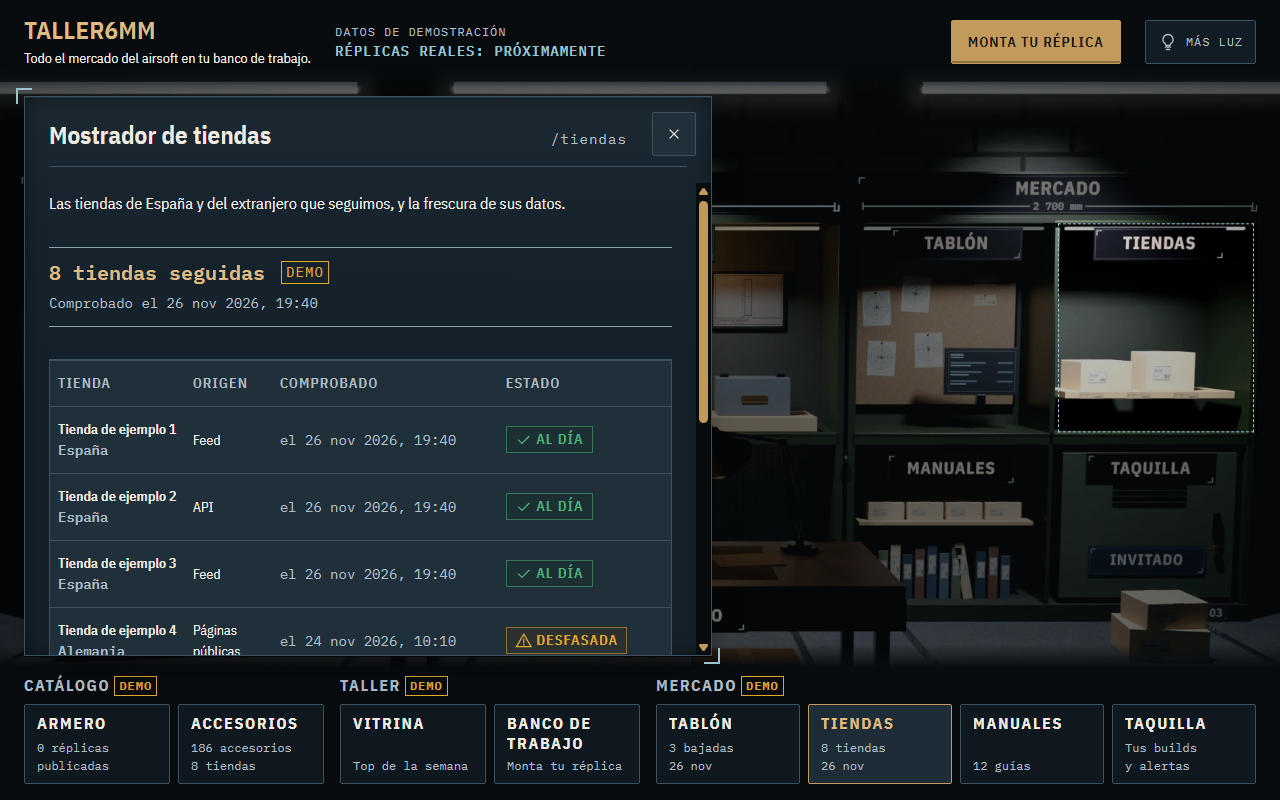
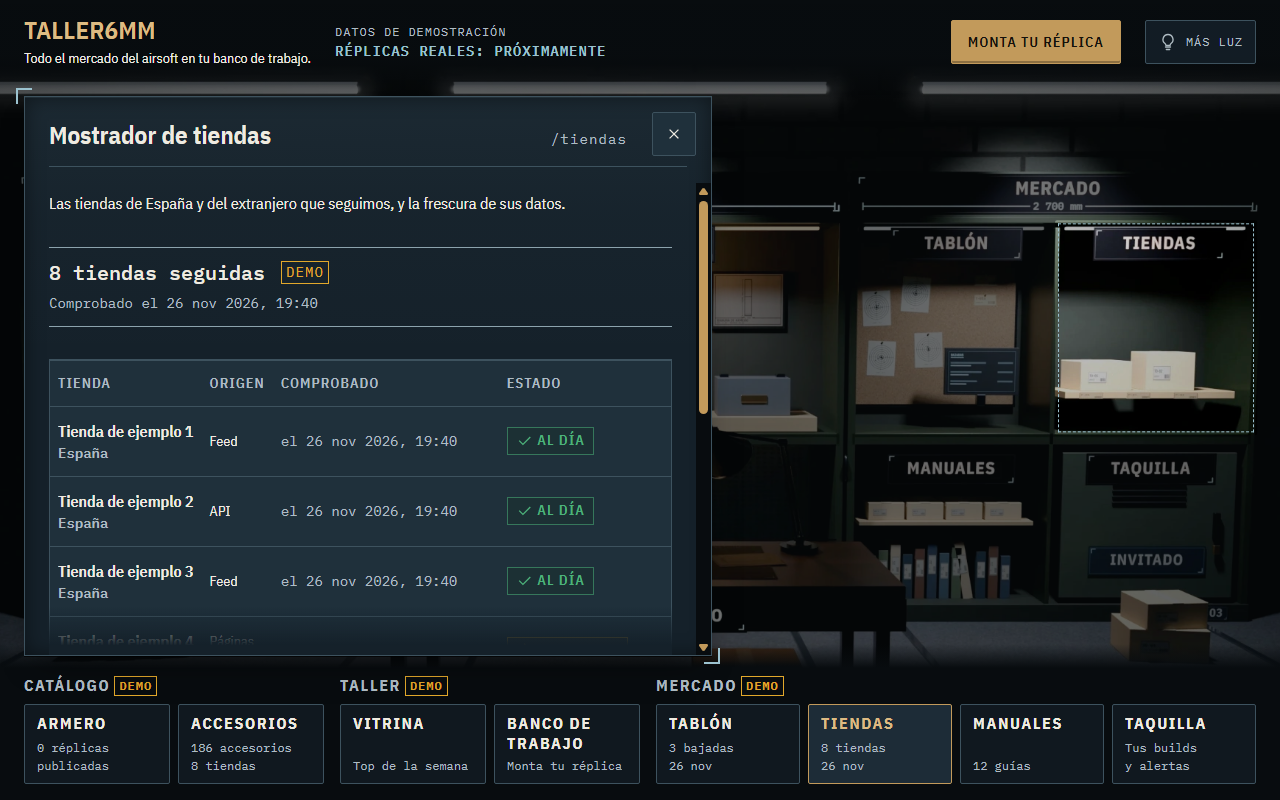
fix(armeria): sheet legibility pass 2 (scroll fade visible, 16 px running text, lower T0 plans)
Claude-Session: https://claude.ai/code/session_013rqQGG25HwpD8NFVsP1mPw

diff --git a/apps/web/src/components/armeria/hoja.css b/apps/web/src/components/armeria/hoja.css
@@ -155,9 +155,9 @@
 .armeria__hoja-dato {
   font-family: var(--fuente-datos);
   font-size: var(--texto-l);
-  font-weight: var(--peso-semi);
+  font-weight: var(--peso-medio);
   line-height: var(--interlineado-compacto);
-  color: var(--laton-claro);
+  color: var(--hueso);
 }
 
 .armeria__fecha {
@@ -309,7 +309,17 @@
   gap: var(--espacio-3);
 }
 
-/* Fichas de pieza: dos por fila, con su plano T0 en la proporción de /sistema (las cotas se leen). */
+/* Plano más bajo (2:1) para que nombre y precio entren en la primera vista; las cotas se siguen leyendo. */
+.armeria__fichas .t6-ficha__imagen {
+  aspect-ratio: 2 / 1;
+}
+
+.armeria__fichas .t6-ficha__imagen :is(.t6-plano, img) {
+  position: absolute;
+  inset: 0;
+}
+
+/* Fichas de pieza: dos por fila. */
 .armeria__fichas {
   display: grid;
   grid-template-columns: 1fr 1fr;
@@ -455,13 +465,14 @@
 .armeria__hoja-cuerpo::after {
   content: "";
   position: sticky;
-  bottom: 0;
+  /* Chrome mide el «pegado» desde el contenido, no desde el borde: se compensa el relleno inferior. */
+  bottom: calc(var(--espacio-8) * -1);
   display: block;
   flex: none;
-  block-size: var(--espacio-8);
+  block-size: var(--espacio-12);
   /* Anula el hueco (`gap`) que el degradado, como último elemento, añadiría al final. */
-  margin-block-start: calc((var(--espacio-8) + var(--espacio-8)) * -1);
-  background: linear-gradient(to bottom, transparent, var(--carbon));
+  margin-block-start: calc((var(--espacio-12) + var(--espacio-8)) * -1);
+  background: linear-gradient(to bottom, transparent, var(--carbon) 80%);
   opacity: 0;
   pointer-events: none;
 }
@@ -469,7 +480,7 @@
 @supports (animation-timeline: scroll()) {
   .armeria__hoja-cuerpo::after {
     animation: armeria-mas-abajo linear both;
-    animation-timeline: scroll(self block);
+    animation-timeline: scroll(nearest block);
   }
 }
 
@@ -536,4 +547,23 @@
   .armeria__hoja[data-lado] {
     animation: none;
   }
+}
+
+/* Texto corrido de avisos y veredictos a 16 px y a medida de lectura; los 14 px quedan para metadatos. */
+.armeria__hoja :is(.t6-aviso__texto, .t6-compat__motivo) {
+  max-width: var(--ancho-lectura);
+  font-size: var(--texto-m);
+  line-height: var(--interlineado-cuerpo);
+}
+
+.armeria__hoja .t6-tabla tbody th[scope="row"] {
+  font-size: var(--texto-m);
+}
+
+.armeria__hoja .armeria__bajada del {
+  text-decoration-thickness: 1px;
+}
+
+.armeria__cifras dd {
+  font-size: var(--texto-2xl);
 }
